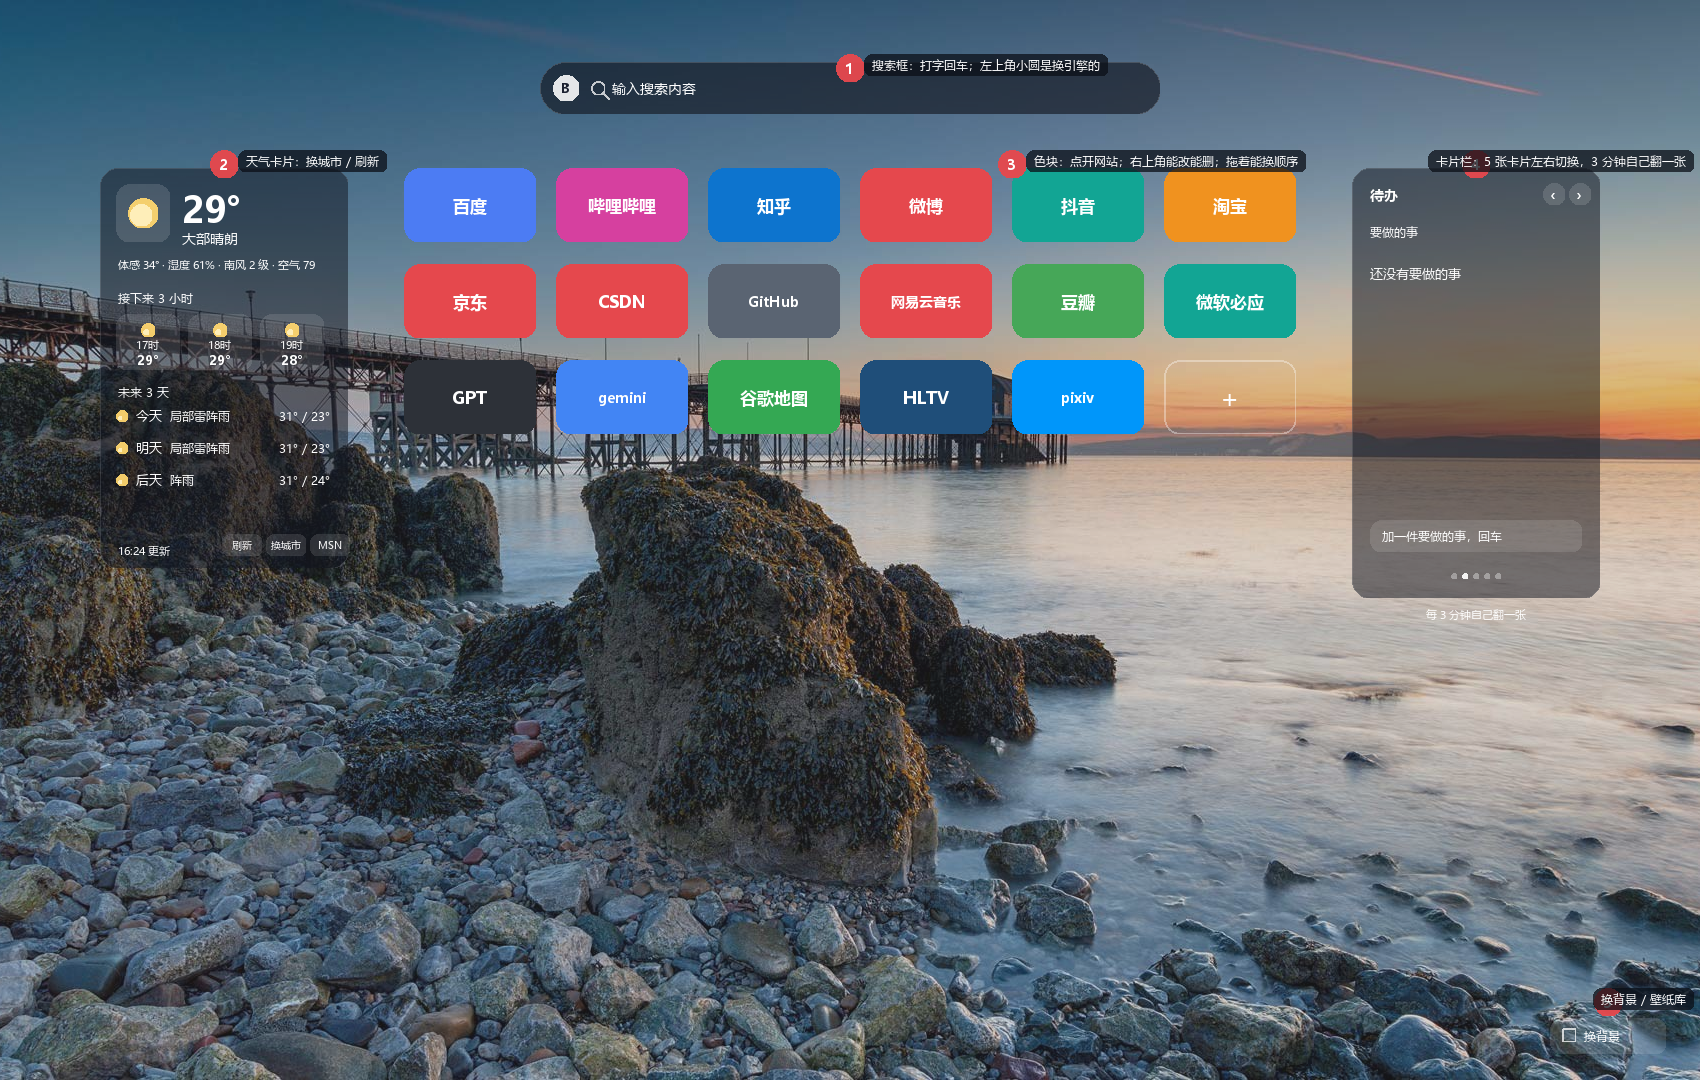
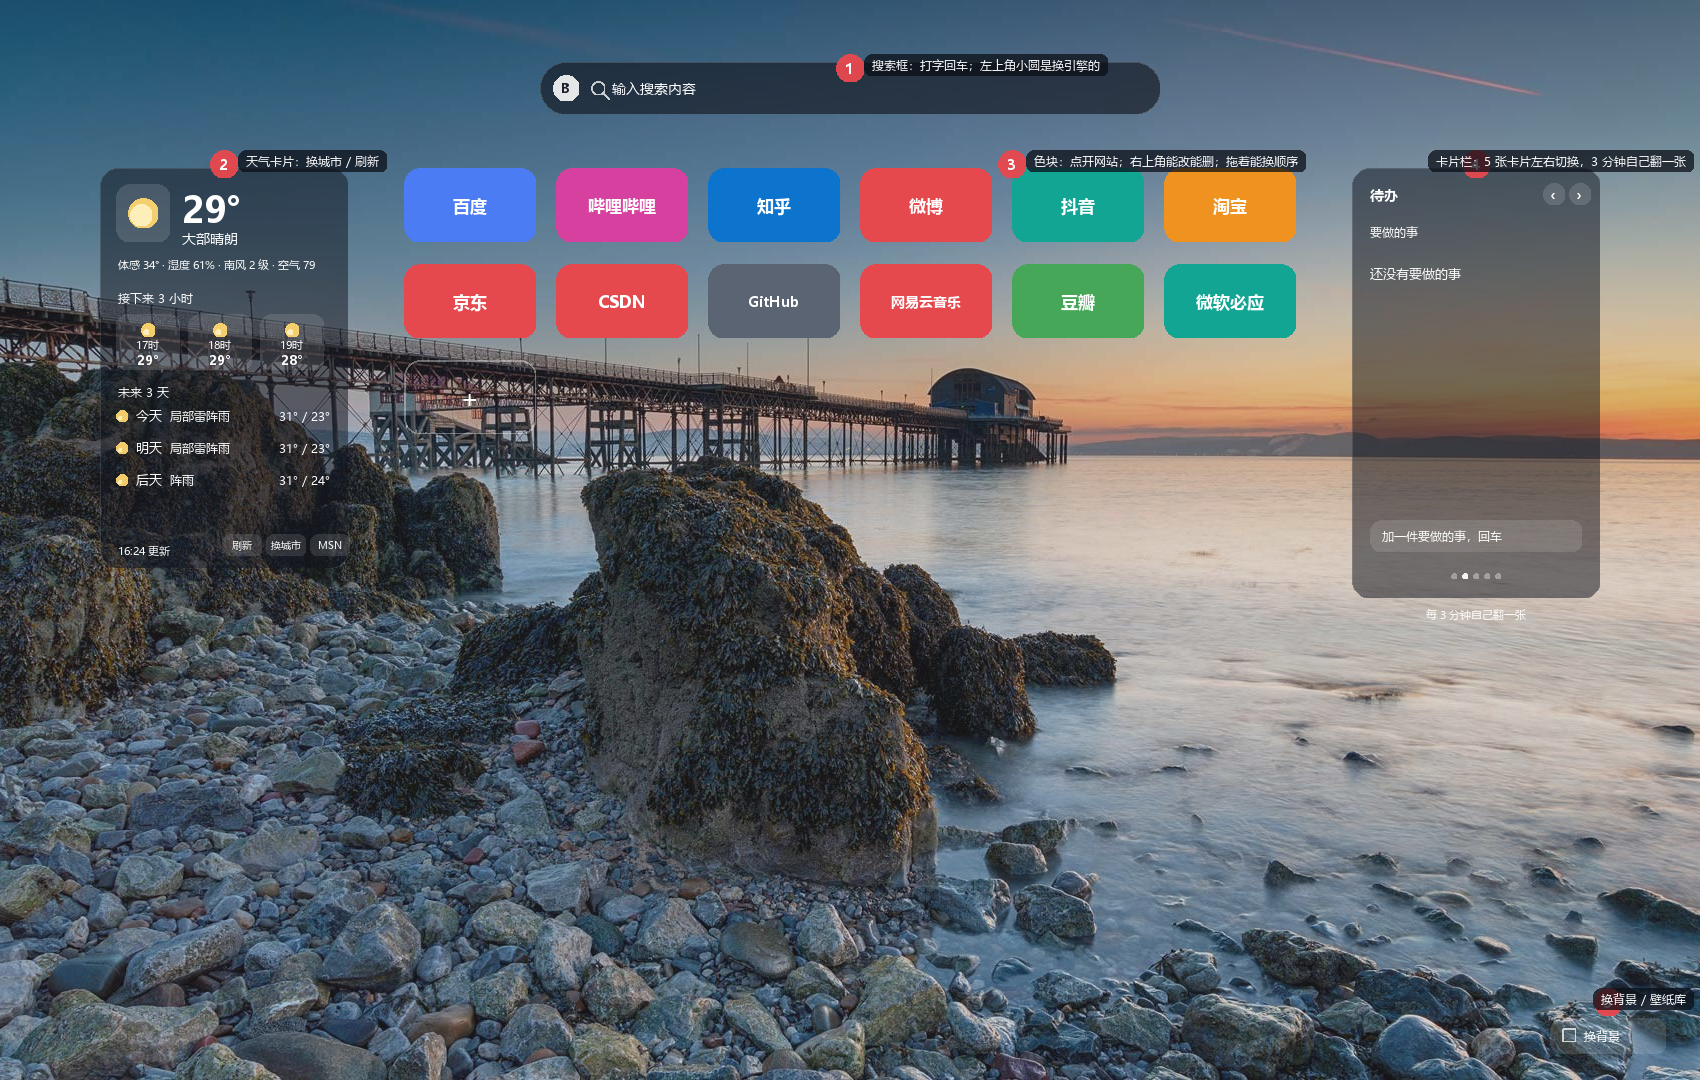
预置站点只留大众站，去掉 d13~d17（GPT / gemini / 谷歌地图 / HLTV / pixiv）
- storage.js：DEFAULT_BOOKMARKS 只保留 d01~d12（百度 / 哔哩哔哩 / 知乎 / 微博 /
  抖音 / 淘宝 / 京东 / CSDN / GitHub / 网易云音乐 / 豆瓣 / 微软必应）。
  这 5 条是个人常用站，不该跟着仓库发出去；老用户手里已经存下的不会被动到
  （它们在 nk.bookmarks 里，且 d13~d17 早已记进 nk.presets），只是新装的人不再自带
- tools/gen_docs_images.py：SITES 跟着删成 12 个，并改掉那句「从 storage.js 读出来的」
  的假说明（其实是手抄的）；重新生成 docs/01-整页.png，README 那张图上不再出现这 5 个站
- tools/测试预置补全.mjs：不再拿真实的 d13~d17 当「后加的预置」样本，改成往 storage.js
  的临时副本里现塞 5 条假预置（t01~t05）。以后预置怎么增删，这个测试都不用跟着改
- README：开头补一行作者（NEKE / GitHub @NEKE1031）

Changed region(s): [[0.2182, 0.3361, 0.6859, 0.4278]]

diff --git a/storage.js b/storage.js
@@ -53,7 +53,7 @@ export function colorForName(name) {
   return ICON_COLORS[hash % ICON_COLORS.length];
 }
 
-/** 第一次打开时预置的网站，用户可以随便删。 */
+/** 第一次打开时预置的网站，用户可以随便删。只放大众站点，别塞自己的常用站。 */
 export const DEFAULT_BOOKMARKS = [
   { id: "d01", title: "百度", url: "https://www.baidu.com", color: "#4c7cf3" },
   { id: "d02", title: "哔哩哔哩", url: "https://www.bilibili.com", color: "#d6409f" },
@@ -67,11 +67,6 @@ export const DEFAULT_BOOKMARKS = [
   { id: "d10", title: "网易云音乐", url: "https://music.163.com", color: "#e5484d" },
   { id: "d11", title: "豆瓣", url: "https://www.douban.com", color: "#46a758" },
   { id: "d12", title: "微软必应", url: "https://www.bing.com", color: "#12a594" },
-  { id: "d13", title: "GPT", url: "https://chatgpt.com", color: "#2d3138" },
-  { id: "d14", title: "gemini", url: "https://gemini.google.com", color: "#4285f4" },
-  { id: "d15", title: "谷歌地图", url: "https://www.google.com/maps", color: "#34a853" },
-  { id: "d16", title: "HLTV", url: "https://www.hltv.org", color: "#1f4e79" },
-  { id: "d17", title: "pixiv", url: "https://www.pixiv.net", color: "#0096fa" },
 ];
 
 /* ------------------------------------------------------------------ *

diff --git a/tools/gen_docs_images.py b/tools/gen_docs_images.py
@@ -2,7 +2,7 @@
 
 图都按 newtab.css 里的真实数值画：色块 132x74、间距 20/22、左边卡片 248 宽、
 圆角 16/18、毛玻璃 rgba(18,22,32,.52)、搜索框宽 620 高 52。站点名字和颜色
-是从 storage.js 的 DEFAULT_BOOKMARKS 里读出来的，不是编的。
+是手抄 storage.js 里 DEFAULT_BOOKMARKS 的 d01~d12，不是编的；改预置时记得同步这里。
 
 产物在 docs/ 下：
   01-整页.png          整页长什么样（带 1~5 标注）
@@ -103,14 +103,13 @@ def cover(path, size):
     return image.resize(size, Image.LANCZOS).convert("RGBA")
 
 
-# ---------- 站点：从 storage.js 里抠出来，别自己编 ----------
+# ---------- 站点：对着 storage.js 的 d01~d12 抄，别自己编 ----------
+# 只放大众站点。这里会出现在 README 的图上，别把个人的常用站塞进来。
 
 SITES = [
     ("百度", "#4c7cf3"), ("哔哩哔哩", "#d6409f"), ("知乎", "#0d74ce"), ("微博", "#e5484d"),
     ("抖音", "#12a594"), ("淘宝", "#f0921f"), ("京东", "#e5484d"), ("CSDN", "#e5484d"),
     ("GitHub", "#5a6472"), ("网易云音乐", "#e5484d"), ("豆瓣", "#46a758"), ("微软必应", "#12a594"),
-    ("GPT", "#2d3138"), ("gemini", "#4285f4"), ("谷歌地图", "#34a853"), ("HLTV", "#1f4e79"),
-    ("pixiv", "#0096fa"),
 ]
 
 TILE_W, TILE_H, GAP_X, GAP_Y = 132, 74, 20, 22

diff --git a/README.md b/README.md
@@ -1,5 +1,7 @@
 # NKtab
 
+**作者：NEKE**（GitHub [@NEKE1031](https://github.com/NEKE1031)）——这个新标签页是我自己写着用的，顺手开源出来。
+
 一个**不用登录、不联网也能用、不要钱**的新标签页（Edge / Chromium，Manifest V3）。
 没有 AI、没有账号、没有云端壁纸——你的网站、待办、便签、壁纸，全都留在这台电脑和你的浏览器账号里。
 
